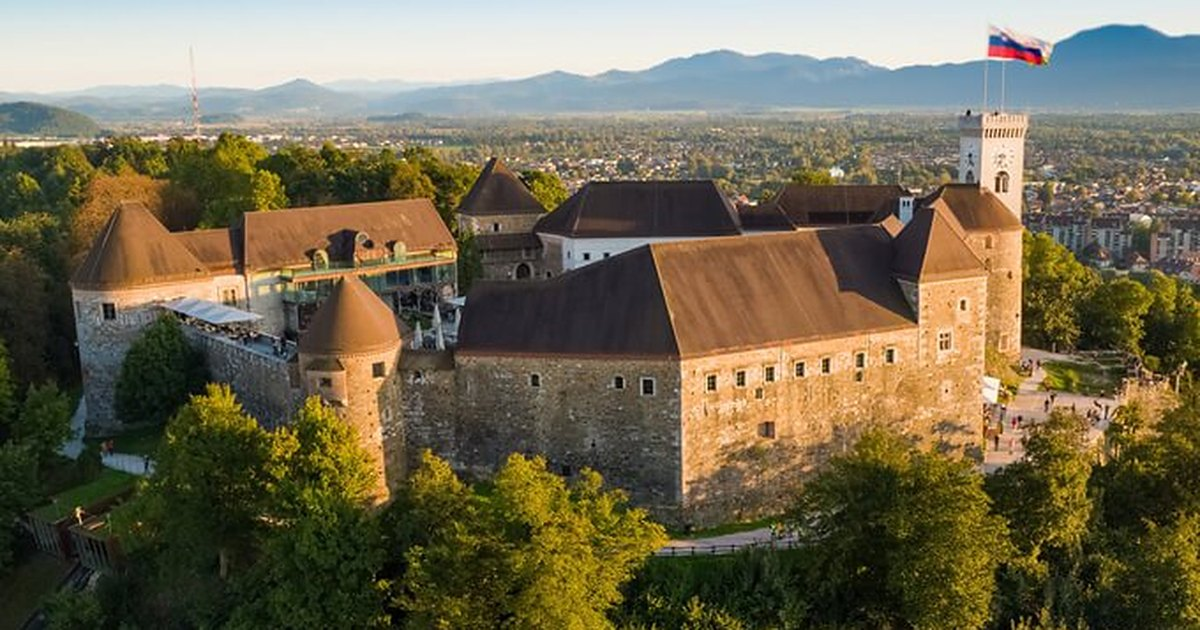
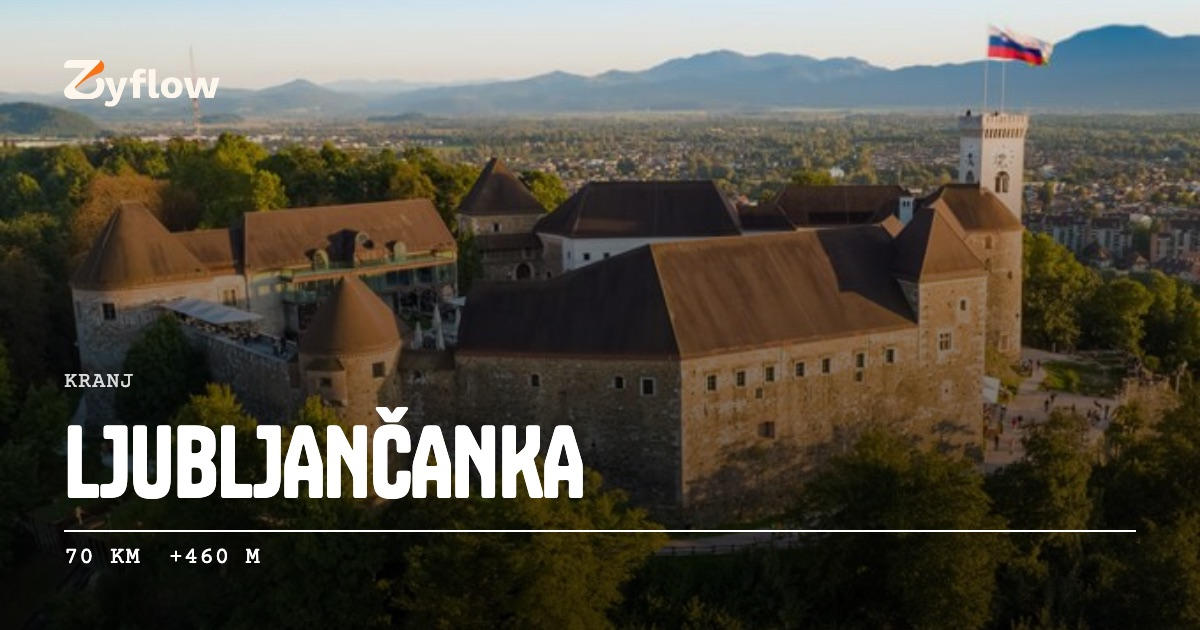
feat: brand book fixes for the announcement bar, hero, photos and share images
From the brand book audit (design-system docs/brand-book.html §11):
- Announcement bar: orange dot instead of the green motif, mono
  uppercase label, one shorter sentence, underlined "Download →".
- Home hero: the h1 is now a mono eyebrow with a fact ("Bike-friendly
  stays, cafés and chargers") instead of repeating "explore further.".
- About: the orange-graded bikepacking photo is replaced by the
  Ljubljanica and Triple Bridge photo; the unused file is removed.
- Share images: scripts/render-og.js renders branded 1200×630 images
  (photo, hero scrim, wordmark, Tanker title, mono data strip) for every
  tour, plus a branded default per locale (og/zyflow-en.jpg,
  og/zyflow-sl.jpg) that replaces the raw 1024×680 hero photo.

diff --git a/rebuild/scripts/render-og.js b/rebuild/scripts/render-og.js
@@ -1,0 +1,140 @@
+#!/usr/bin/env node
+/**
+ * Render the Open Graph share images (1200×630) from the brand book templates.
+ *
+ * - Tours: assets/images/og/tours/<slug>.jpg — the route's cover photo, hero
+ *   scrim, wordmark, Tanker route name and a mono data strip (km · climb).
+ *   Numbers only, so one image serves both locales.
+ * - Default: assets/images/og/zyflow-<locale>.jpg — the home hero photo with
+ *   the localised hero eyebrow and "Every stop. One map." headline.
+ *
+ * Needs Google Chrome and macOS `sips` (PNG → JPEG). Re-run after a cover
+ * photo, a route name or the headline copy changes, then commit the JPEGs.
+ *
+ * Usage:
+ *   node rebuild/scripts/render-og.js            # everything
+ *   node rebuild/scripts/render-og.js kamnicanka # one tour
+ */
+
+const fs = require("fs");
+const os = require("os");
+const path = require("path");
+const { execFileSync } = require("child_process");
+const { pathToFileURL } = require("url");
+const { tourHasOwnOg, defaultOgPath } = require("./page-meta");
+
+const ROOT = path.join(__dirname, "..");
+const CHROME =
+  process.env.CHROME_PATH || "/Applications/Google Chrome.app/Contents/MacOS/Google Chrome";
+const WIDTH = 1200;
+const HEIGHT = 630;
+const JPEG_QUALITY = "82";
+
+const asset = (rel) => pathToFileURL(path.join(ROOT, rel)).href;
+const stripTags = (html) => String(html || "").replace(/<[^>]*>/g, "").replace(/\s+/g, " ").trim();
+const escapeHtml = (s) =>
+  String(s).replace(/[&<>"]/g, (c) => ({ "&": "&amp;", "<": "&lt;", ">": "&gt;", '"': "&quot;" })[c]);
+
+function page({ photo, eyebrow, title, strip, titleSize }) {
+  const stripHtml = strip.length
+    ? `<div class="strip">${strip.map((s) => `<span>${escapeHtml(s)}</span>`).join("")}</div>`
+    : "";
+  // Courier Prime from Google Fonts: the synced woff2 lacks Č, Š and Ž capitals.
+  return `<!doctype html><html><head><meta charset="utf-8">
+<link rel="stylesheet" href="https://fonts.googleapis.com/css2?family=Courier+Prime&display=block&subset=latin-ext">
+<style>
+@font-face{font-family:Tanker;src:url(${asset("assets/design-system/fonts/Tanker-Regular.woff2")}) format("woff2")}
+*{margin:0;box-sizing:border-box}
+html,body{width:${WIDTH}px;height:${HEIGHT}px;overflow:hidden;background:#000}
+.photo{position:absolute;inset:0;width:100%;height:100%;object-fit:cover}
+.scrim{position:absolute;inset:0;background:linear-gradient(180deg,rgba(0,0,0,0) 0%,rgba(0,0,0,.38) 40%,rgba(0,0,0,.7) 100%)}
+.wm{position:absolute;left:64px;top:60px;width:156px}
+.copy{position:absolute;left:64px;right:64px;bottom:60px;display:flex;flex-direction:column;gap:18px;color:#fff}
+.eyebrow{font:400 22px/1.2 "Courier Prime",monospace;letter-spacing:.04em;text-transform:uppercase;color:rgba(255,255,255,.84)}
+.title{font:400 ${titleSize}px/1.02 Tanker,Impact,sans-serif;letter-spacing:-.01em;text-transform:uppercase;max-width:960px;text-wrap:balance}
+.strip{display:flex;gap:28px;border-top:2px solid #fff;padding-top:14px;font:400 24px/1 "Courier Prime",monospace;letter-spacing:.04em;text-transform:uppercase}
+</style></head><body>
+<img class="photo" src="${photo}">
+<div class="scrim"></div>
+<img class="wm" src="${asset("assets/design-system/logos/png/zyflow-wordmark-on-dark-1200.png")}">
+<div class="copy">
+  <div class="eyebrow">${escapeHtml(eyebrow)}</div>
+  <div class="title">${escapeHtml(title)}</div>
+  ${stripHtml}
+</div>
+</body></html>`;
+}
+
+function render(html, outRel) {
+  const tmp = fs.mkdtempSync(path.join(os.tmpdir(), "zy-og-"));
+  const htmlFile = path.join(tmp, "og.html");
+  const pngFile = path.join(tmp, "og.png");
+  fs.writeFileSync(htmlFile, html);
+  execFileSync(CHROME, [
+    "--headless=new",
+    "--disable-gpu",
+    "--hide-scrollbars",
+    "--allow-file-access-from-files",
+    "--force-device-scale-factor=1",
+    "--virtual-time-budget=3000",
+    `--window-size=${WIDTH},${HEIGHT}`,
+    `--screenshot=${pngFile}`,
+    pathToFileURL(htmlFile).href,
+  ], { stdio: "ignore" });
+  const out = path.join(ROOT, outRel);
+  fs.mkdirSync(path.dirname(out), { recursive: true });
+  execFileSync("sips", ["-s", "format", "jpeg", "-s", "formatOptions", JPEG_QUALITY, pngFile, "--out", out], {
+    stdio: "ignore",
+  });
+  fs.rmSync(tmp, { recursive: true, force: true });
+  console.log(`  ${outRel}`);
+}
+
+function tourCover(slug) {
+  const dir = path.join(ROOT, "assets/images/tours", slug);
+  const file = fs.existsSync(dir) && fs.readdirSync(dir).find((f) => /^cover\.(jpe?g|webp|png)$/i.test(f));
+  return file ? path.join(dir, file) : null;
+}
+
+function main() {
+  const only = process.argv[2];
+  const en = JSON.parse(fs.readFileSync(path.join(ROOT, "locales/en.json"), "utf8"));
+
+  for (const [slug, route] of Object.entries(en.routes)) {
+    if (only && only !== slug) continue;
+    if (!tourHasOwnOg(slug)) continue;
+    const cover = tourCover(slug);
+    if (!cover) {
+      console.warn(`  skip ${slug}: no cover photo`);
+      continue;
+    }
+    render(
+      page({
+        photo: pathToFileURL(cover).href,
+        eyebrow: stripTags(route.place),
+        title: stripTags(route.titleHtml),
+        strip: [stripTags(route.distanceHtml), `+${stripTags(route.climb)}`],
+        titleSize: 96,
+      }),
+      `assets/images/og/tours/${slug}.jpg`
+    );
+  }
+
+  if (!only) {
+    for (const locale of ["en", "sl"]) {
+      const messages = JSON.parse(fs.readFileSync(path.join(ROOT, `locales/${locale}.json`), "utf8"));
+      render(
+        page({
+          photo: asset("assets/images/home/hero.jpg"),
+          eyebrow: stripTags(messages.home.hero.titleHtml),
+          title: stripTags(messages.home.appBanner.titleHtml.replace(/<br\s*\/?>/g, " ")),
+          strip: [],
+          titleSize: 104,
+        }),
+        defaultOgPath(locale).replace(/^\//, "")
+      );
+    }
+  }
+}
+
+main();

diff --git a/rebuild/scripts/test-page-meta.js b/rebuild/scripts/test-page-meta.js
@@ -11,6 +11,7 @@ const {
   collectMetaIssues,
   absoluteOgImage,
   tourOgPath,
+  defaultOgPath,
   tourHasOwnOg,
   TOUR_OG_WIDTH,
   TOUR_OG_HEIGHT,
@@ -300,7 +301,11 @@ test("tour og:image uses the generated JPG; other pages keep the default", () =>
   );
   assert.equal(
     absoluteOgImage(SITE_ORIGIN, ""),
-    `${SITE_ORIGIN}/assets/images/home/hero.jpg`
+    `${SITE_ORIGIN}/assets/images/og/zyflow-en.jpg`
+  );
+  assert.equal(
+    absoluteOgImage(SITE_ORIGIN, "", defaultOgPath("sl")),
+    `${SITE_ORIGIN}/assets/images/og/zyflow-sl.jpg`
   );
 });
 
@@ -429,17 +434,17 @@ test("built tour pages ship their own description, alt text, and 1200×630 image
   assert.equal(prop(virnik, "og:image:width"), "1200");
 
   const home = read("index.html");
-  assert.equal(image(home), `${SITE_ORIGIN}/assets/images/home/hero.jpg`);
-  assert.equal(prop(home, "og:image:width"), "1024");
-  assert.equal(prop(home, "og:image:height"), "680");
+  assert.equal(image(home), `${SITE_ORIGIN}/assets/images/og/zyflow-en.jpg`);
+  assert.equal(prop(home, "og:image:width"), "1200");
+  assert.equal(prop(home, "og:image:height"), "630");
   assert.equal(prop(home, "og:image:type"), "image/jpeg");
   assert.match(prop(home, "og:image:alt"), /bike-friendly/);
   assert.equal(named(home, "twitter:image:alt"), prop(home, "og:image:alt"));
 
   const k53 = read("tours/k53-kriva-jelka.html");
-  assert.equal(image(k53), `${SITE_ORIGIN}/assets/images/home/hero.jpg`);
-  assert.equal(prop(k53, "og:image:width"), "1024");
-  assert.equal(prop(k53, "og:image:height"), "680");
+  assert.equal(image(k53), `${SITE_ORIGIN}/assets/images/og/zyflow-en.jpg`);
+  assert.equal(prop(k53, "og:image:width"), "1200");
+  assert.equal(prop(k53, "og:image:height"), "630");
   assert.equal(prop(k53, "og:image:type"), "image/jpeg");
   assert.equal(prop(k53, "og:image:alt"), prop(home, "og:image:alt"));
   assert.equal(named(k53, "twitter:image:alt"), prop(k53, "og:image:alt"));
@@ -449,7 +454,7 @@ test("built tour pages ship their own description, alt text, and 1200×630 image
     desc(legal),
     "Politika zasebnosti, politika piškotkov in pogoji uporabe za Zyflow in HERKO d.o.o."
   );
-  assert.equal(image(legal), `${SITE_ORIGIN}/assets/images/home/hero.jpg`);
+  assert.equal(image(legal), `${SITE_ORIGIN}/assets/images/og/zyflow-sl.jpg`);
 
   const slPrivacy = read("sl/legal-privacy.html");
   assert.equal(title(slPrivacy), "Zyflow, Politika zasebnosti");
@@ -467,7 +472,7 @@ test("built tour pages ship their own description, alt text, and 1200×630 image
   assert.equal(named(slJezerski, "twitter:image:alt"), prop(slJezerski, "og:image:alt"));
 
   const slK53 = read("sl/tours/k53-kriva-jelka.html");
-  assert.equal(image(slK53), `${SITE_ORIGIN}/assets/images/home/hero.jpg`);
+  assert.equal(image(slK53), `${SITE_ORIGIN}/assets/images/og/zyflow-sl.jpg`);
   assert.match(prop(slK53, "og:image:alt"), /kolesarjem prijazni/);
   assert.equal(named(slK53, "twitter:image:alt"), prop(slK53, "og:image:alt"));
 

diff --git a/rebuild/sections/about/hero.html b/rebuild/sections/about/hero.html
@@ -7,7 +7,7 @@
       <div class="about-hero__polaroid about-hero__polaroid--1 polaroid"><img data-i18n-attr="alt:alts.polaroid1" src="./assets/images/home/polaroid-1.jpg" alt="Two cyclists riding a rocky mountain trail" /></div>
       <div class="about-hero__polaroid about-hero__polaroid--2 polaroid"><img data-i18n-attr="alt:alts.aboutPolaroidCyclist" src="./assets/images/home/about-polaroid-cyclist.jpg" alt="Cyclist riding past green alpine meadows" /></div>
       <div class="about-hero__polaroid about-hero__polaroid--3 polaroid"><img data-i18n-attr="alt:alts.polaroid3" src="./assets/images/home/polaroid-3.jpg" alt="Group of cyclists taking a break in a pine forest" /></div>
-      <div class="about-hero__polaroid about-hero__polaroid--4 polaroid"><img data-i18n-attr="alt:alts.bikepackSunset" src="./assets/images/home/bikepack-sunset.jpg" alt="Bikepacking bike with bags at sunset" /></div>
+      <div class="about-hero__polaroid about-hero__polaroid--4 polaroid"><img data-i18n-attr="alt:alts.ljubljanaBridge" src="./assets/images/home/ljubljana-bridge.jpg" alt="Ljubljanica river and the Triple Bridge in Ljubljana" /></div>
       <div class="about-hero__polaroid about-hero__polaroid--5 polaroid"><img data-i18n-attr="alt:alts.coffeeSign" src="./assets/images/home/coffee-sign.jpg" alt="Café sign reading &quot;cyclists need coffee&quot; on a village street" /></div>
       <div class="about-hero__polaroid about-hero__polaroid--6 polaroid"><img data-i18n-attr="alt:alts.feature2" src="./assets/images/home/feature-2.jpg" alt="Two bike tourers on an alpine road below snowy peaks" /></div>
     </div>

diff --git a/rebuild/css/home.css b/rebuild/css/home.css
@@ -22,10 +22,25 @@
   padding-inline: var(--space-gap-6);
 }
 
+.announcement__dot {
+  width: 7px;
+  height: 7px;
+  border-radius: 50%;
+  background: var(--color-brand-accent-1);
+  flex-shrink: 0;
+}
+
 .announcement__label {
   font-family: var(--font-badge);
-  font-size: var(--type-body);
+  font-size: var(--type-small);
+  letter-spacing: 0.04em;
+  text-transform: uppercase;
   color: var(--color-text-body);
+}
+
+.announcement__link {
+  text-decoration: underline;
+  text-underline-offset: 3px;
 }
 
 .announcement__text {
@@ -745,13 +760,16 @@ html[data-theme="light"] .footer__brand-logo--light {
   gap: var(--space-gap-3);
 }
 
+/* The h1 is the mono eyebrow: a plain fact, not a repeat of the display line. */
 .hero__h1 {
   margin: 0;
-  font-family: var(--font-body);
-  font-size: var(--type-lead);
-  font-weight: 600;
-  line-height: var(--leading-lead);
-  color: #fff;
+  font-family: var(--font-badge);
+  font-size: var(--type-small);
+  font-weight: 400;
+  line-height: var(--leading-body);
+  letter-spacing: 0.04em;
+  text-transform: uppercase;
+  color: rgba(255, 255, 255, 0.84);
   text-wrap: balance;
 }
 

diff --git a/rebuild/components/announcement.html b/rebuild/components/announcement.html
@@ -1,10 +1,10 @@
 <div class="announcement" data-partial="announcement">
   <div class="announcement__inner">
-    <span class="motif" aria-hidden="true"></span>
+    <span class="announcement__dot" aria-hidden="true"></span>
     <span class="announcement__label" data-i18n="chrome.announcement.label">App Update:</span>
     <span class="announcement__text announcement__text--full" data-i18n="chrome.announcement.text">Zyflow is live on iOS and Android. Plan smarter rides with battery-aware routing.</span>
     <span class="announcement__text announcement__text--short" data-i18n="chrome.announcement.textShort">Live on iOS &amp; Android</span>
-    <a class="link" href="{{appStoreUrl}}" data-app-modal-open data-i18n="chrome.announcement.cta">Download</a>
+    <a class="link announcement__link" href="{{appStoreUrl}}" data-app-modal-open data-i18n="chrome.announcement.cta">Download</a>
   </div>
   <div class="announcement__divider" aria-hidden="true">
     <span class="section-divider__layer section-divider__layer--1"></span>

diff --git a/rebuild/scripts/test-publication.js b/rebuild/scripts/test-publication.js
@@ -157,9 +157,9 @@ test("JOURNAL_PUBLIC=true restores journal links, sitemap, and robots", () => {
     assert.match(home, /data-nav-link="journal"/);
 
     const appStore = "https://apps.apple.com/si/app/zyflow/id6763228086";
-    assert.match(home, /property="og:image" content="https:\/\/www\.zyflow\.eu\/assets\/images\/home\/hero\.jpg"/);
-    assert.match(home, /property="og:image:width" content="1024"/);
-    assert.match(home, /property="og:image:height" content="680"/);
+    assert.match(home, /property="og:image" content="https:\/\/www\.zyflow\.eu\/assets\/images\/og\/zyflow-en\.jpg"/);
+    assert.match(home, /property="og:image:width" content="1200"/);
+    assert.match(home, /property="og:image:height" content="630"/);
     assert.match(home, /property="og:image:type" content="image\/jpeg"/);
     assert.match(home, /property="og:image:alt" content="Zyflow, bike-friendly places and cycling routes"/);
     assert.match(home, new RegExp(appStore.replace(/[.]/g, "\\.")));

diff --git a/rebuild/scripts/page-meta.js b/rebuild/scripts/page-meta.js
@@ -9,9 +9,10 @@
  * at least 30% of the score, without having to outnumber the page language.
  */
 
-const DEFAULT_OG_PATH = "/assets/images/home/hero.jpg";
-const DEFAULT_OG_WIDTH = 1024;
-const DEFAULT_OG_HEIGHT = 680;
+/** Branded share image per locale, rendered by scripts/render-og.js. */
+const DEFAULT_OG_PATH = "/assets/images/og/zyflow-en.jpg";
+const DEFAULT_OG_WIDTH = 1200;
+const DEFAULT_OG_HEIGHT = 630;
 const DEFAULT_OG_TYPE = "image/jpeg";
 const TOUR_OG_WIDTH = 1200;
 const TOUR_OG_HEIGHT = 630;
@@ -518,6 +519,10 @@ function tourHasOwnOg(slug) {
   return !TOURS_USING_DEFAULT_OG.has(slug);
 }
 
+function defaultOgPath(locale) {
+  return locale === "sl" ? "/assets/images/og/zyflow-sl.jpg" : DEFAULT_OG_PATH;
+}
+
 function tourOgPath(slug) {
   return `/assets/images/og/tours/${slug}.jpg`;
 }
@@ -552,5 +557,6 @@ module.exports = {
   absoluteOgImage,
   tourHasOwnOg,
   tourOgPath,
+  defaultOgPath,
   ogImageAlt,
 };

diff --git a/rebuild/scripts/build.js b/rebuild/scripts/build.js
@@ -47,7 +47,7 @@ const { appStoreUrlForLocale, assertAppStoreLinks } = require("./store-links");
 const {
   absoluteOgImage,
   collectMetaIssues,
-  DEFAULT_OG_PATH,
+  defaultOgPath,
   DEFAULT_OG_WIDTH,
   DEFAULT_OG_HEIGHT,
   DEFAULT_OG_TYPE,
@@ -86,7 +86,6 @@ function readMapTilerKey() {
   return key;
 }
 
-const OG_IMAGE_PATH = DEFAULT_OG_PATH;
 const OG_LOCALES = { en: "en_US", sl: "sl_SI" };
 
 function read(filePath) {
@@ -1110,7 +1109,7 @@ function buildHead(page, locale, messages) {
   const ogImage = absoluteOgImage(
     SITE_ORIGIN,
     usePostOg ? page.seo.ogImage : useTourOg ? tourOgPath(page.routeSlug) : "",
-    OG_IMAGE_PATH
+    defaultOgPath(locale)
   );
   const ogImageWidth = usePostOg || useTourOg ? TOUR_OG_WIDTH : DEFAULT_OG_WIDTH;
   const ogImageHeight = usePostOg || useTourOg ? TOUR_OG_HEIGHT : DEFAULT_OG_HEIGHT;

diff --git a/rebuild/sections/home/hero.html b/rebuild/sections/home/hero.html
@@ -6,7 +6,7 @@
     </div>
     <div class="hero__content">
       <div class="hero__head">
-        <h1 class="hero__h1" data-i18n-html="home.hero.titleHtml">bike-friendly stays, cafés and chargers for cyclists</h1>
+        <h1 class="hero__h1" data-i18n-html="home.hero.titleHtml">Bike-friendly stays, cafés and chargers</h1>
         <p class="hero__title" data-i18n-html="home.hero.brandHtml">explore<br />further.</p>
       </div>
       <p class="hero__sub" data-i18n="home.hero.subtitle">Smart navigation for cyclists and e-bike riders. Battery, elevation, and weather before you leave.</p>

diff --git a/rebuild/scripts/optimize-images.js b/rebuild/scripts/optimize-images.js
@@ -47,7 +47,6 @@ const LAYOUT = {
   "intro-bikepack.jpg": { maxCss: 160, sizes: "160px" },
   "intro-cyclist.jpg": { maxCss: 200, sizes: "200px" },
   "about-polaroid-cyclist.jpg": { maxCss: 220, sizes: "220px" },
-  "bikepack-sunset.jpg": { maxCss: 220, sizes: "220px" },
   "feature-1.jpg": {
     maxCss: 480,
     sizes: "(max-width: 720px) 100vw, (max-width: 1100px) 50vw, 420px",
